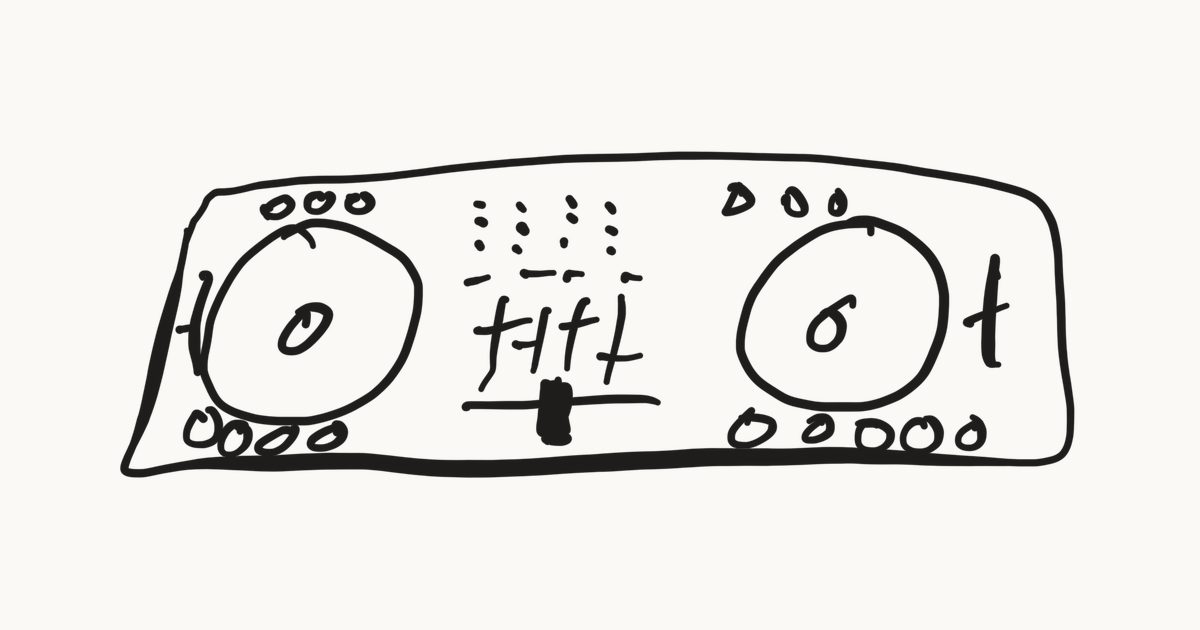
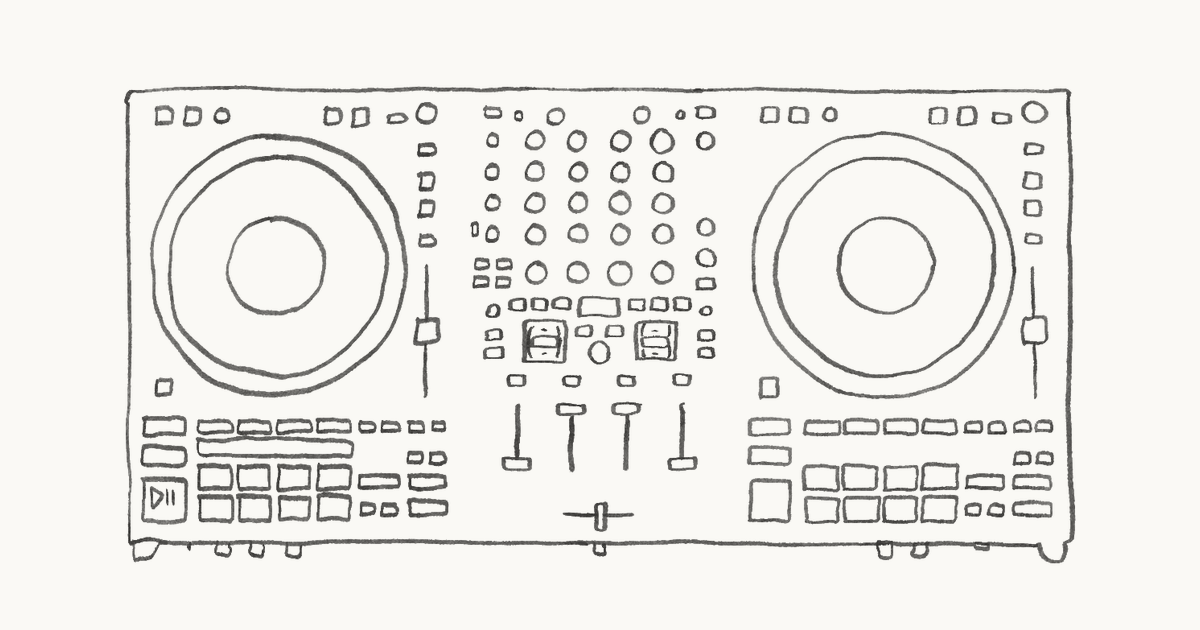
Deploy build from source ef605b9

Changed region(s): [[0.0925, 0.1206, 0.8942, 0.9048]]

diff --git a/about.html b/about.html
@@ -11,8 +11,8 @@
 <meta property="og:title" content="About | Matthew Reate">
 <meta property="og:description" content="Where the taste came from and what’s on the shelf. A record collector who DJs about forty-five weddings a year.">
 <meta property="og:url" content="https://www.matthewreate.com/about.html">
-<meta property="og:image" content="https://www.matthewreate.com/doodles/share.png?v=8b041c27">
-<link rel="stylesheet" href="site.css?v=4634afa6">
+<meta property="og:image" content="https://www.matthewreate.com/doodles/share.png?v=d0e94375">
+<link rel="stylesheet" href="site.css?v=e0450d55">
 <script type="application/ld+json">
 {
  "@context": "https://schema.org",
@@ -47,7 +47,7 @@
 <p>Everything since has been chasing both of those: the warmth of a 5 o’clock radio set and the architecture of a side-A/side-B record.</p>
 <h2>Some of what I play</h2>
 <p>Random picks, in no order. Ask me tomorrow and it’d be a different list.</p>
-<p class="picks">Leo’s Sunshipp, The Love Unlimited Orchestra, Milton Wright, mei ehara, Tom Tom Club, Oby Onyioha, Willie Wright, Japanese Breakfast, Say She She, Robin S, Herb Alpert, Trevor Dandy, Sade, Letta Mbulu, Mariah Carey, Jorge Autuori, Supreme Jubilees, Tim Maia, Bileo, Purple Disco Machine, Nel Oliver, Dee Edwards, Sly &amp; The Family Stone, Gilberto Gil, Cerrone, Miki Matsubara, Evinha, Daryl Hall &amp; John Oates.<br>
+<p class="picks">Letta Mbulu, 50 Cent, The Chi-Lites, Antena, Azymuth, Marvin Gaye, Robin S, Roy Ayers Ubiquity, Kalima, Say She She, Odetta, Mariah Carey, Orquesta Harlow, Trevor Dandy, Brick, Cleo Sol, Ultra Naté, Prince, Isabelle Antena, berlioz &amp; Ted Jasper, The Five Stairsteps, Peggy Gou, Grace Jones, The Esquires, Herb Alpert, Chemise, Chaka Khan, Kokoroko.<br>
 <span class="m">Shuffled <time datetime="2026-10-18">2026-10-18</time>.</span></p>
 <p>A few labels I dig through: Athens of the North, Numero Group, Salsoul, Awesome Tapes from Africa, Jazz Dispensary.</p>
 <h2>The shelf</h2>

diff --git a/index.html b/index.html
@@ -11,8 +11,8 @@
 <meta property="og:title" content="Matthew Reate | Wedding DJ Work for Music Nerds">
 <meta property="og:description" content="Room-tested records from a working collector. Forty-five weddings a year in New York, New Jersey, and the Hudson Valley.">
 <meta property="og:url" content="https://www.matthewreate.com/">
-<meta property="og:image" content="https://www.matthewreate.com/doodles/share.png?v=8b041c27">
-<link rel="stylesheet" href="site.css?v=4634afa6">
+<meta property="og:image" content="https://www.matthewreate.com/doodles/share.png?v=d0e94375">
+<link rel="stylesheet" href="site.css?v=e0450d55">
 <script type="application/ld+json">
 {
  "@context": "https://schema.org",
@@ -81,7 +81,7 @@
 <main>
 <h1><img class="name" src="doodles/name.png?v=15333e3e" width="190" height="203" alt="Matthew Reate"></h1>
 <section class="lede">
-<div class="rail"><img class="mark" src="doodles/controller.png?v=9e288ef4" width="190" height="73" alt="A DJ controller, drawn by hand"></div>
+<div class="rail"><span class="dd"><img class="mark" src="doodles/controller.png?v=712e3265" width="190" height="97" alt="A DJ controller, drawn by hand"><img class="mark color" src="doodles/controller-color.png?v=9a98c1e4" width="190" height="97" alt=""></span></div>
 <p>I’m a <a href="about.html">record collector</a> who DJs weddings in New York, New Jersey, and the Hudson Valley, about forty-five a year.</p>
 </section>
 <section id="mixes">

diff --git a/site.css b/site.css
@@ -125,6 +125,9 @@ img { max-width: 100%; height: auto; }
 h1 img.name { display: block; width: 10em; margin: .2em 0 .3em -.4em; }
 header img.sig { display: block; width: 5em; margin-left: -.25em; }
 .lede .mark { display: block; width: 11em; margin: 1em 0 1.2em -.2em; }
+/* With its colored twin, the controller's size and place move to the pair. */
+.lede .dd { display: block; width: 11em; margin: 1em 0 1.2em -.2em; }
+.lede .dd > img.mark { display: block; width: 100%; margin: 0; }
 .motto { font-style: italic; margin: 0 0 .7em; }
 h2 img.label { height: 1.9em; width: auto; vertical-align: -.5em; }  /* crate dividers */
 .lost { display: block; width: 12em; margin: 0 0 1.5em -.2em; }
@@ -169,6 +172,7 @@ h2:has(img.h) { margin-top: calc(1.5em + 2.1em * var(--s, 1)); }
   main > section > :not(h2, .rail) { grid-column: 2; grid-row: 1; }
   main > section.lede { margin-top: 2em; }
   .lede .mark { width: 100%; margin: .15em 0 0 -.2em; }
+  .lede .dd { width: 100%; margin: .15em 0 0 -.2em; }
   h2 img.h, h2 .dd { display: block; margin: .7em 0 0 -.1em; }
   h2 img.h { height: calc(3.8em * var(--s, 1)); }
   h2 .dd > img.h { margin: 0; }

diff --git a/playlists/record-collector-cocktail-hour.html b/playlists/record-collector-cocktail-hour.html
@@ -11,8 +11,8 @@
 <meta property="og:title" content="Record Collector Cocktail Hour | Matthew Reate">
 <meta property="og:description" content="First pours, warm records, the room waking up. Built for first pours, warm records, and the kind of social ease that makes a room feel open before anything turns performative.">
 <meta property="og:url" content="https://www.matthewreate.com/playlists/record-collector-cocktail-hour.html">
-<meta property="og:image" content="https://www.matthewreate.com/doodles/share.png?v=8b041c27">
-<link rel="stylesheet" href="../site.css?v=4634afa6">
+<meta property="og:image" content="https://www.matthewreate.com/doodles/share.png?v=d0e94375">
+<link rel="stylesheet" href="../site.css?v=e0450d55">
 <script src="../wilma/key.js?v=5ca7ad73" defer></script>
 </head>
 <body>

diff --git a/playlists/record-collector-dinner.html b/playlists/record-collector-dinner.html
@@ -11,8 +11,8 @@
 <meta property="og:title" content="Record Collector Dinner | Matthew Reate">
 <meta property="og:description" content="Dinner music that keeps the room alive. Built to keep the room alive while people are still seated, with enough movement underneath it that dinner already starts leaning toward the party.">
 <meta property="og:url" content="https://www.matthewreate.com/playlists/record-collector-dinner.html">
-<meta property="og:image" content="https://www.matthewreate.com/doodles/share.png?v=8b041c27">
-<link rel="stylesheet" href="../site.css?v=4634afa6">
+<meta property="og:image" content="https://www.matthewreate.com/doodles/share.png?v=d0e94375">
+<link rel="stylesheet" href="../site.css?v=e0450d55">
 <script src="../wilma/key.js?v=5ca7ad73" defer></script>
 </head>
 <body>

diff --git a/shop/c-24.html b/shop/c-24.html
@@ -11,8 +11,8 @@
 <meta property="og:title" content="Instant Funk – Get Down With The Philly Jump (1976 LP) | Matthew Reate">
 <meta property="og:description" content="Instant Funk – Get Down With The Philly Jump: LP, TSOP / Philadelphia International PZ 34358, 1976. Ungraded, checked before it ships. One copy, $22.">
 <meta property="og:url" content="https://www.matthewreate.com/shop/c-24.html">
-<meta property="og:image" content="https://www.matthewreate.com/doodles/share.png?v=8b041c27">
-<link rel="stylesheet" href="../site.css?v=4634afa6">
+<meta property="og:image" content="https://www.matthewreate.com/doodles/share.png?v=d0e94375">
+<link rel="stylesheet" href="../site.css?v=e0450d55">
 <script type="application/ld+json">
 {
  "@context": "https://schema.org",

diff --git a/shop/c-10.html b/shop/c-10.html
@@ -11,8 +11,8 @@
 <meta property="og:title" content="Michael McDonald – If That’s What It Takes (1982 LP) | Matthew Reate">
 <meta property="og:description" content="Michael McDonald – If That’s What It Takes: LP, Warner Bros. 9 23703-1, 1982. Ungraded, checked before it ships. One copy, $12.">
 <meta property="og:url" content="https://www.matthewreate.com/shop/c-10.html">
-<meta property="og:image" content="https://www.matthewreate.com/doodles/share.png?v=8b041c27">
-<link rel="stylesheet" href="../site.css?v=4634afa6">
+<meta property="og:image" content="https://www.matthewreate.com/doodles/share.png?v=d0e94375">
+<link rel="stylesheet" href="../site.css?v=e0450d55">
 <script type="application/ld+json">
 {
  "@context": "https://schema.org",

diff --git a/shop/b-19.html b/shop/b-19.html
@@ -11,8 +11,8 @@
 <meta property="og:title" content="George Clinton – You Shouldn’t-Nuf Bit Fish (1983 LP) | Matthew Reate">
 <meta property="og:description" content="George Clinton – You Shouldn’t-Nuf Bit Fish: LP, Capitol ST-12308, 1983. Ungraded, checked before it ships. One copy, $13.">
 <meta property="og:url" content="https://www.matthewreate.com/shop/b-19.html">
-<meta property="og:image" content="https://www.matthewreate.com/doodles/share.png?v=8b041c27">
-<link rel="stylesheet" href="../site.css?v=4634afa6">
+<meta property="og:image" content="https://www.matthewreate.com/doodles/share.png?v=d0e94375">
+<link rel="stylesheet" href="../site.css?v=e0450d55">
 <script type="application/ld+json">
 {
  "@context": "https://schema.org",

diff --git a/mixes/deep-cut-cocktail-hour.html b/mixes/deep-cut-cocktail-hour.html
@@ -11,8 +11,8 @@
 <meta property="og:title" content="Deep Cut Cocktail Hour | Matthew Reate">
 <meta property="og:description" content="A 54-minute cocktail-hour mix of deep cuts — Brazilian jazz, soul, boogie, and city pop — recorded live in one continuous pass.">
 <meta property="og:url" content="https://www.matthewreate.com/mixes/deep-cut-cocktail-hour.html">
-<meta property="og:image" content="https://www.matthewreate.com/doodles/share.png?v=8b041c27">
-<link rel="stylesheet" href="../site.css?v=4634afa6">
+<meta property="og:image" content="https://www.matthewreate.com/doodles/share.png?v=d0e94375">
+<link rel="stylesheet" href="../site.css?v=e0450d55">
 <script src="../wilma/key.js?v=5ca7ad73" defer></script>
 </head>
 <body>

diff --git a/shop/b-09.html b/shop/b-09.html
@@ -11,8 +11,8 @@
 <meta property="og:title" content="Dionne Warwicke – Just Being Myself (1973 LP) | Matthew Reate">
 <meta property="og:description" content="Dionne Warwicke – Just Being Myself: LP, Warner Bros. BS 2658, 1973. Ungraded, checked before it ships. One copy, $25.">
 <meta property="og:url" content="https://www.matthewreate.com/shop/b-09.html">
-<meta property="og:image" content="https://www.matthewreate.com/doodles/share.png?v=8b041c27">
-<link rel="stylesheet" href="../site.css?v=4634afa6">
+<meta property="og:image" content="https://www.matthewreate.com/doodles/share.png?v=d0e94375">
+<link rel="stylesheet" href="../site.css?v=e0450d55">
 <script type="application/ld+json">
 {
  "@context": "https://schema.org",

diff --git a/playlists/record-collector-dance.html b/playlists/record-collector-dance.html
@@ -11,8 +11,8 @@
 <meta property="og:title" content="Record Collector Dance | Matthew Reate">
 <meta property="og:description" content="The floor, from the first brave dancer on. Built for the whole night of dancing, until nobody wants the lights to come up.">
 <meta property="og:url" content="https://www.matthewreate.com/playlists/record-collector-dance.html">
-<meta property="og:image" content="https://www.matthewreate.com/doodles/share.png?v=8b041c27">
-<link rel="stylesheet" href="../site.css?v=4634afa6">
+<meta property="og:image" content="https://www.matthewreate.com/doodles/share.png?v=d0e94375">
+<link rel="stylesheet" href="../site.css?v=e0450d55">
 <script src="../wilma/key.js?v=5ca7ad73" defer></script>
 </head>
 <body>

diff --git a/shop/c-03.html b/shop/c-03.html
@@ -11,8 +11,8 @@
 <meta property="og:title" content="Leprechaun – Party Freaks (1981 12″) | Matthew Reate">
 <meta property="og:description" content="Leprechaun – Party Freaks: 12″, Citation Record Co. (NYC) CI-711, 1981. Ungraded, checked before it ships. One copy, $19.">
 <meta property="og:url" content="https://www.matthewreate.com/shop/c-03.html">
-<meta property="og:image" content="https://www.matthewreate.com/doodles/share.png?v=8b041c27">
-<link rel="stylesheet" href="../site.css?v=4634afa6">
+<meta property="og:image" content="https://www.matthewreate.com/doodles/share.png?v=d0e94375">
+<link rel="stylesheet" href="../site.css?v=e0450d55">
 <script type="application/ld+json">
 {
  "@context": "https://schema.org",
